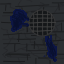
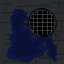
some better tiles

Changed region(s): [[0.0938, 0.125, 0.875, 1.0], [0.875, 0.3438, 0.9062, 0.4062]]

diff --git a/src/main/resources/tilesheet.tsx b/src/main/resources/tilesheet.tsx
@@ -1,5 +1,5 @@
 <?xml version="1.0" encoding="UTF-8"?>
-<tileset name="tilesheet" tilewidth="64" tileheight="64" tilecount="6" columns="0">
+<tileset name="tilesheet" tilewidth="64" tileheight="64" tilecount="7" columns="0">
  <tile id="0">
   <image width="64" height="64" source="ruinwall1-ends.png"/>
   <objectgroup draworder="index">
@@ -23,5 +23,8 @@
  </tile>
  <tile id="5">
   <image width="64" height="64" source="ruinfloor1-drain-water.png"/>
+ </tile>
+ <tile id="6">
+  <image width="64" height="64" source="ruinfloor1-water.png"/>
  </tile>
 </tileset>

diff --git a/src/main/java/com/escho/game/main/HEROMapGenerator.java b/src/main/java/com/escho/game/main/HEROMapGenerator.java
@@ -40,17 +40,18 @@ public class HEROMapGenerator {
                 Point2D here = new Point2D.Double(x,y);
                 String type = "floor";
                 int roll = HEROUtility.getRandomChaosHash(948398292, x, y, 0, 100);
-                if (roll >= 50) {type="floor";} else
-                if (roll <= 50) {type="wall";}
+                if (roll >= 41) {type="floor";} else
+                if (roll < 40) {type="wall";}
                 if (x == 0 || y == 0 || x == width-1 || y == width-1) {type="wall";}
                 skeletonMap.put(here, type);
             }
         }
 
+        ArrayList<Integer> rolls = new ArrayList<>();
         ArrayList<Tile> tiles = new ArrayList<>();
         for (int y = 0; y < height; y++) {
             for (int x = 0; x < width ; x++) {
-                int roll = HEROUtility.getRandomChaosHash(948398292, x, y, 0, 100);
+                int roll = HEROUtility.getRandomChaosHash(948398292, x, y, 0, 200);
                 String thisType = skeletonMap.get(new Point2D.Double(x,y)); boolean thisIsWall = Objects.equals(thisType, "wall");
                 String upType = skeletonMap.get(new Point2D.Double(x,y-1)); boolean upIsWall = Objects.equals(upType, "wall");
                 String downType = skeletonMap.get(new Point2D.Double(x,y+1)); boolean downIsWall = Objects.equals(downType, "wall");
@@ -83,12 +84,16 @@ public class HEROMapGenerator {
                 if (thisIsWall && (upIsWall && rightIsWall)) tile = 0; //should be southwest corners
                 if (thisIsWall && (upIsWall && leftIsWall)) tile = 0; //southeast corners
                 if (thisIsWall && (upIsWall && downIsWall)) tile = 1; // middles
+                if (thisIsWall && downIsWall) tile = 1; //middles
 
                 if (thisType.equals("floor"))
                 {
-                    if (roll >= 25) {tile=2;} else
-                    if (roll >= 10 && roll <= 24) {tile=4;} else
-                    if (roll <= 9) {tile=5;}
+                    if (roll >= 56) {tile=2;} else
+                        if (roll >= 46 && roll <= 55) {tile=4;} else
+                            if (roll >= 10 && roll <= 20) {tile=6;} else
+                                if (roll <= 1) {tile=5;}
+                    rolls.add(roll);
+                    //System.out.println("Roll is"+roll+". Tile is "+tile);
                 }
 
                 Tile t = new Tile(tile);
@@ -96,6 +101,10 @@ public class HEROMapGenerator {
                 tiles.add(t);
             }
         }
+
+        System.out.println(rolls);
+        System.out.println(HEROUtility.findMin(rolls));
+        System.out.println(HEROUtility.findMax(rolls));
 
         Game.physics().update();
 

diff --git a/src/main/java/com/escho/game/util/HEROUtility.java b/src/main/java/com/escho/game/util/HEROUtility.java
@@ -10,6 +10,9 @@ import com.escho.game.main.HEROSettingController;
 import de.gurkenlabs.litiengine.Game;
 
 import java.awt.geom.Point2D;
+import java.util.ArrayList;
+import java.util.Collections;
+import java.util.List;
 import java.util.Random;
 
 public class HEROUtility {
@@ -138,11 +141,11 @@ public class HEROUtility {
 
     public static int getRandomInteger(long seed, int min, int max){
         Random rand = new Random(seed);
-        return rand.nextInt((max - min) + 1) + min;
+        return (rand.nextInt((max - min) + 1) + min);
     }
 
     public static int getRandomChaosHash(long seed, int x, int y, int min, int max) {
-        return getRandomInteger(getChaosHash(948398292, x, y), 0, 100);
+        return getRandomInteger(getChaosHash(seed, x, y), min, max);
     }
 
     public static long getChaosHash(long seed, int x, int y){
@@ -157,6 +160,24 @@ public class HEROUtility {
 
     public static double getNeareastNumberFromMultiple(double number, int multiple) {
         return multiple*(Math.round(Math.abs(number/multiple)));
+    }
+
+    public static Integer findMin(List<Integer> list) {
+        if (list == null || list.size() == 0) {
+            return Integer.MAX_VALUE;
+        }
+        List<Integer> sortedlist = new ArrayList<>(list);
+        Collections.sort(sortedlist);
+        return sortedlist.get(0);
+    }
+
+    public static Integer findMax(List<Integer> list) {
+        if (list == null || list.size() == 0) {
+            return Integer.MIN_VALUE;
+        }
+        List<Integer> sortedlist = new ArrayList<>(list);
+        Collections.sort(sortedlist);
+        return sortedlist.get(sortedlist.size() - 1);
     }
 
     public static void moveCreatureTransition(HEROCreature creature, double xNew, double yNew, int steps, int sleep) {

diff --git a/src/main/java/com/escho/game/main/HEROSettingController.java b/src/main/java/com/escho/game/main/HEROSettingController.java
@@ -35,6 +35,5 @@ public class HEROSettingController {
         Game.world().loadEnvironment(random);
         Game.physics().add(Hero.instance());
         Game.physics().update();
-        System.out.println(Game.physics().getCollisionBoxes());
     }
 }
